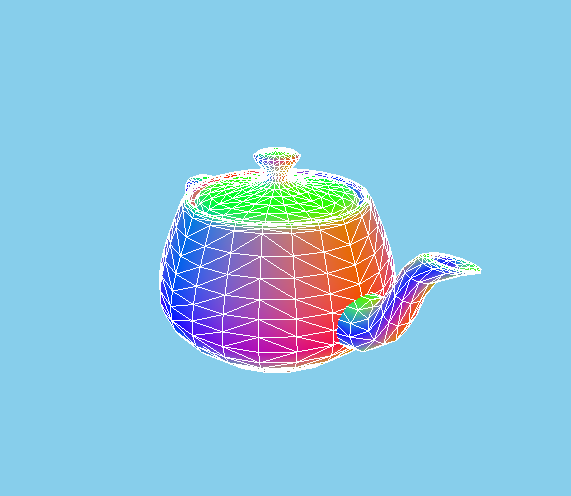
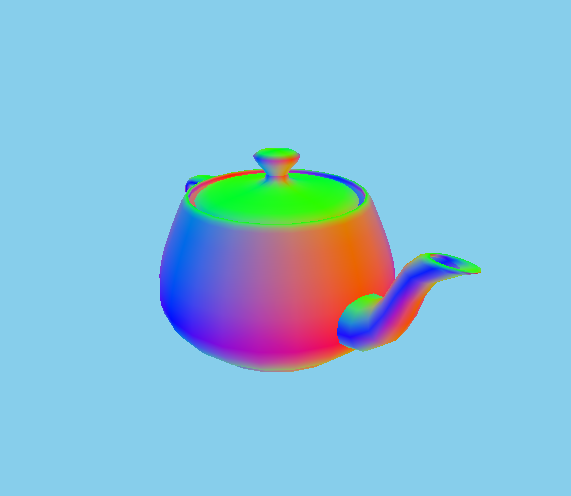
two wndows

Changed region(s): [[0.268, 0.2722, 0.8336, 0.756]]

diff --git a/OpenGLviaCSharp/c11d00_Arcball/FormArcball.cs b/OpenGLviaCSharp/c11d00_Arcball/FormArcball.cs
@@ -32,20 +32,20 @@ namespace c11d00_Arcball
 
         private void FormMain_Load(object sender, EventArgs e)
         {
-            var position = new vec3(5, 3, 4);
+            var position = new vec3(3, 5, 4);
             var center = new vec3(0, 0, 0);
             var up = new vec3(0, 1, 0);
             var camera = new Camera(position, center, up, CameraType.Perspecitive, this.winGLCanvas1.Width, this.winGLCanvas1.Height);
             this.scene = new Scene(camera);
             this.scene.ClearColor = new vec4(0, 0, 0, 1);
-            var light = new DirectionalLight(new vec3(-4, 5, 3));
+            var light = new DirectionalLight(new vec3(4, 5, 3));
             light.Specular = new vec3(0);
             this.scene.Lights.Add(light);
             this.scene.RootNode = GetRootNode();
 
             var list = new ActionList();
             list.Add(new TransformAction(scene.RootNode));
-            //list.Add(new RenderAction(scene));
+            list.Add(new RenderAction(scene));
             list.Add(new BlinnPhongAction(scene));
             this.actionList = list;
 
@@ -70,13 +70,28 @@ namespace c11d00_Arcball
             {
                 var model = new HalfSphere(3, 40, 40);
                 var node = NoShadowNode.Create(model, HalfSphere.strPosition, HalfSphere.strNormal, model.Size);
-                group.Children.Add(node);
+                var list = node.RenderUnit.Methods[0].SwitchList;
+                var list1 = node.RenderUnit.Methods[1].SwitchList;
+                var polygonModeSwitch = new PolygonModeSwitch(PolygonMode.Line);
+                var offsetSwitch = new PolygonOffsetFillSwitch();
+                list.Add(polygonModeSwitch);
+                list1.Add(polygonModeSwitch);
+                var cmd = node.RenderUnit.Methods[0].VertexArrayObjects[0].DrawCommand as DrawElementsCmd;
+                cmd.VertexCount = cmd.VertexCount / 2; group.Children.Add(node);
             }
+            //{
+            //    var model = new RectangleModel();
+            //    Texture texture = GetTexture();
+            //    var node = TexturedNode.Create(model, RectangleModel.strPosition, RectangleModel.strNormal, RectangleModel.strUV, texture, model.ModelSize);
+            //    node.Scale = new vec3(1, 1, 1) * 6;
+            //    node.RotationAxis = new vec3(-1, 0, 0);
+            //    node.RotationAngle = 90;
+
+            //    group.Children.Add(node);
+            //}
             {
-                var model = new RectangleModel();
-                //var node = NoShadowNode.Create(model, RectangleModel.strPosition, RectangleModel.strNormal, model.ModelSize);
-                Texture texture = GetTexture();
-                var node = TexturedNode.Create(model, RectangleModel.strPosition, RectangleModel.strNormal, RectangleModel.strUV, texture, model.ModelSize);
+                var node = RectangleNode.Create();
+                node.TextureSource = new BitmapTextureSource("Canvas.png");
                 node.Scale = new vec3(1, 1, 1) * 6;
                 node.RotationAxis = new vec3(-1, 0, 0);
                 node.RotationAngle = 90;

diff --git a/OpenGLviaCSharp/c11d00_Arcball/Program.cs b/OpenGLviaCSharp/c11d00_Arcball/Program.cs
@@ -15,8 +15,8 @@ namespace c11d00_Arcball
         {
             Application.EnableVisualStyles();
             Application.SetCompatibleTextRenderingDefault(false);
-            Application.Run(new FormArcball());
-            //Application.Run(new FormModel());
+            //Application.Run(new FormArcball());
+            Application.Run(new FormModel());
         }
     }
 }

diff --git a/OpenGLviaCSharp/c11d00_Arcball/FormModel.cs b/OpenGLviaCSharp/c11d00_Arcball/FormModel.cs
@@ -64,6 +64,7 @@ namespace c11d00_Arcball
         private SceneNodeBase GetRootNode()
         {
             TeapotNode node = TeapotNode.Create();
+            node.RenderWireframe = false;
             //(new FormProperyGrid(node)).Show();
             return node;
         }
